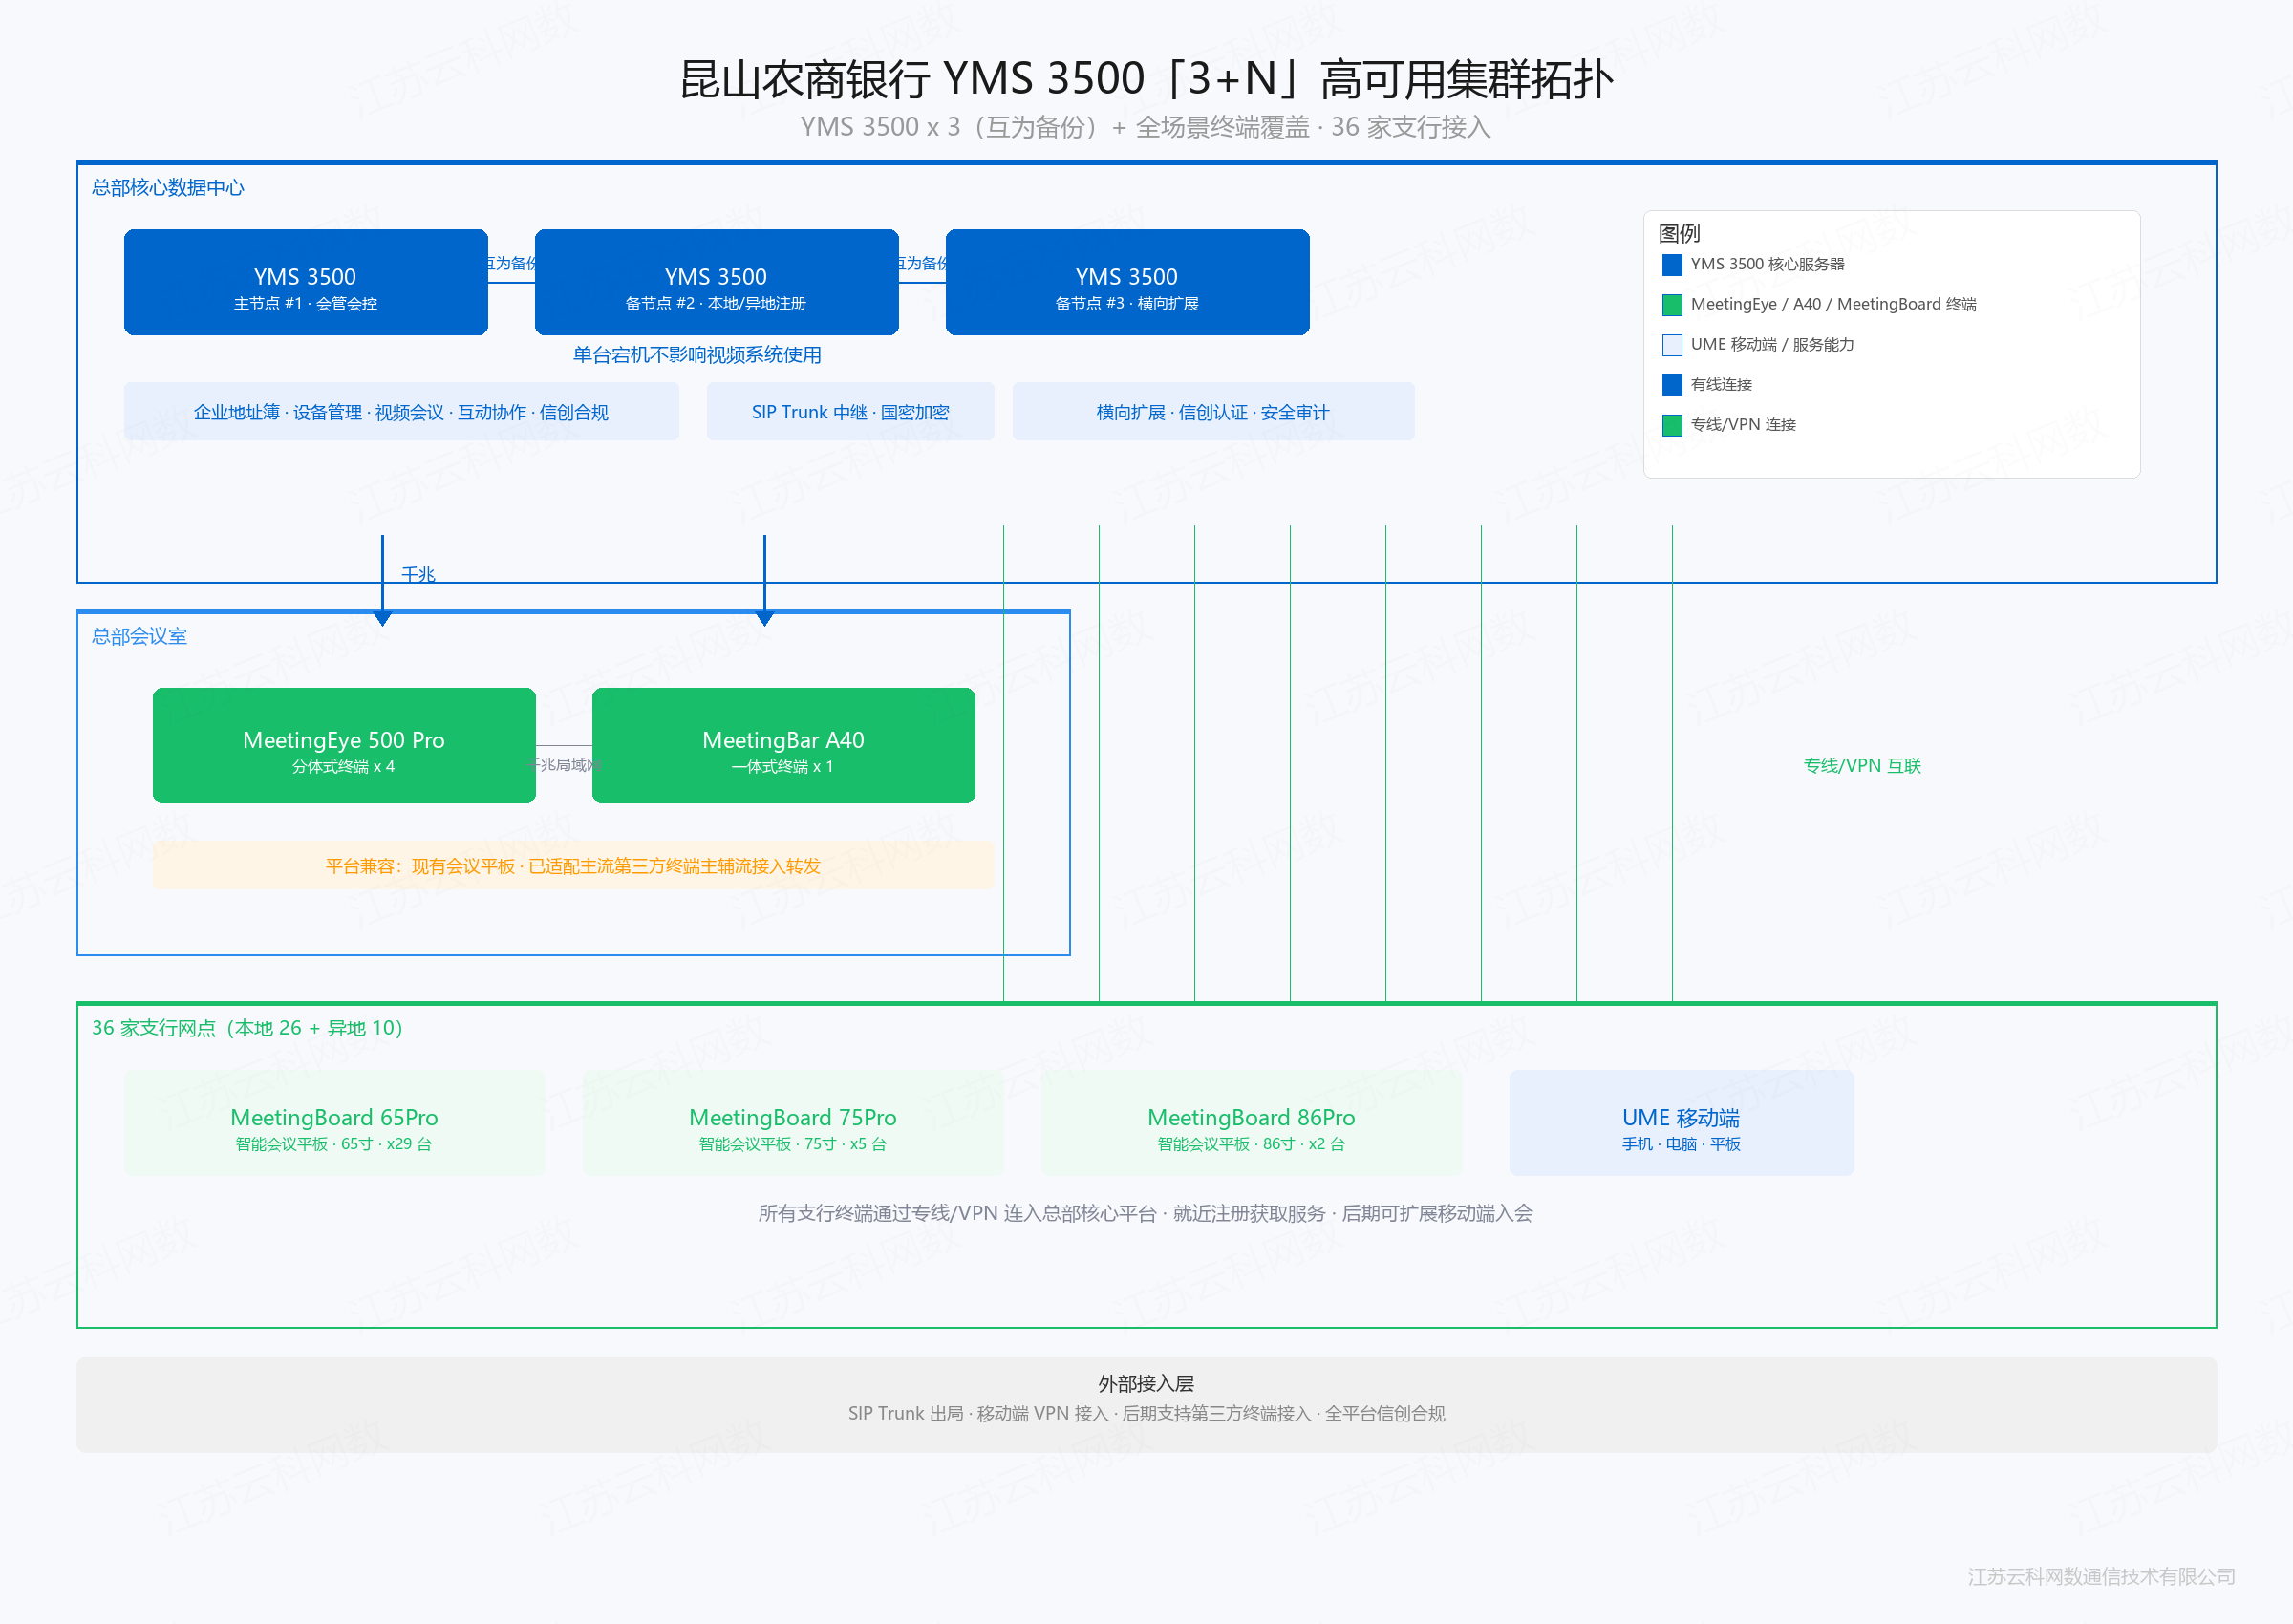
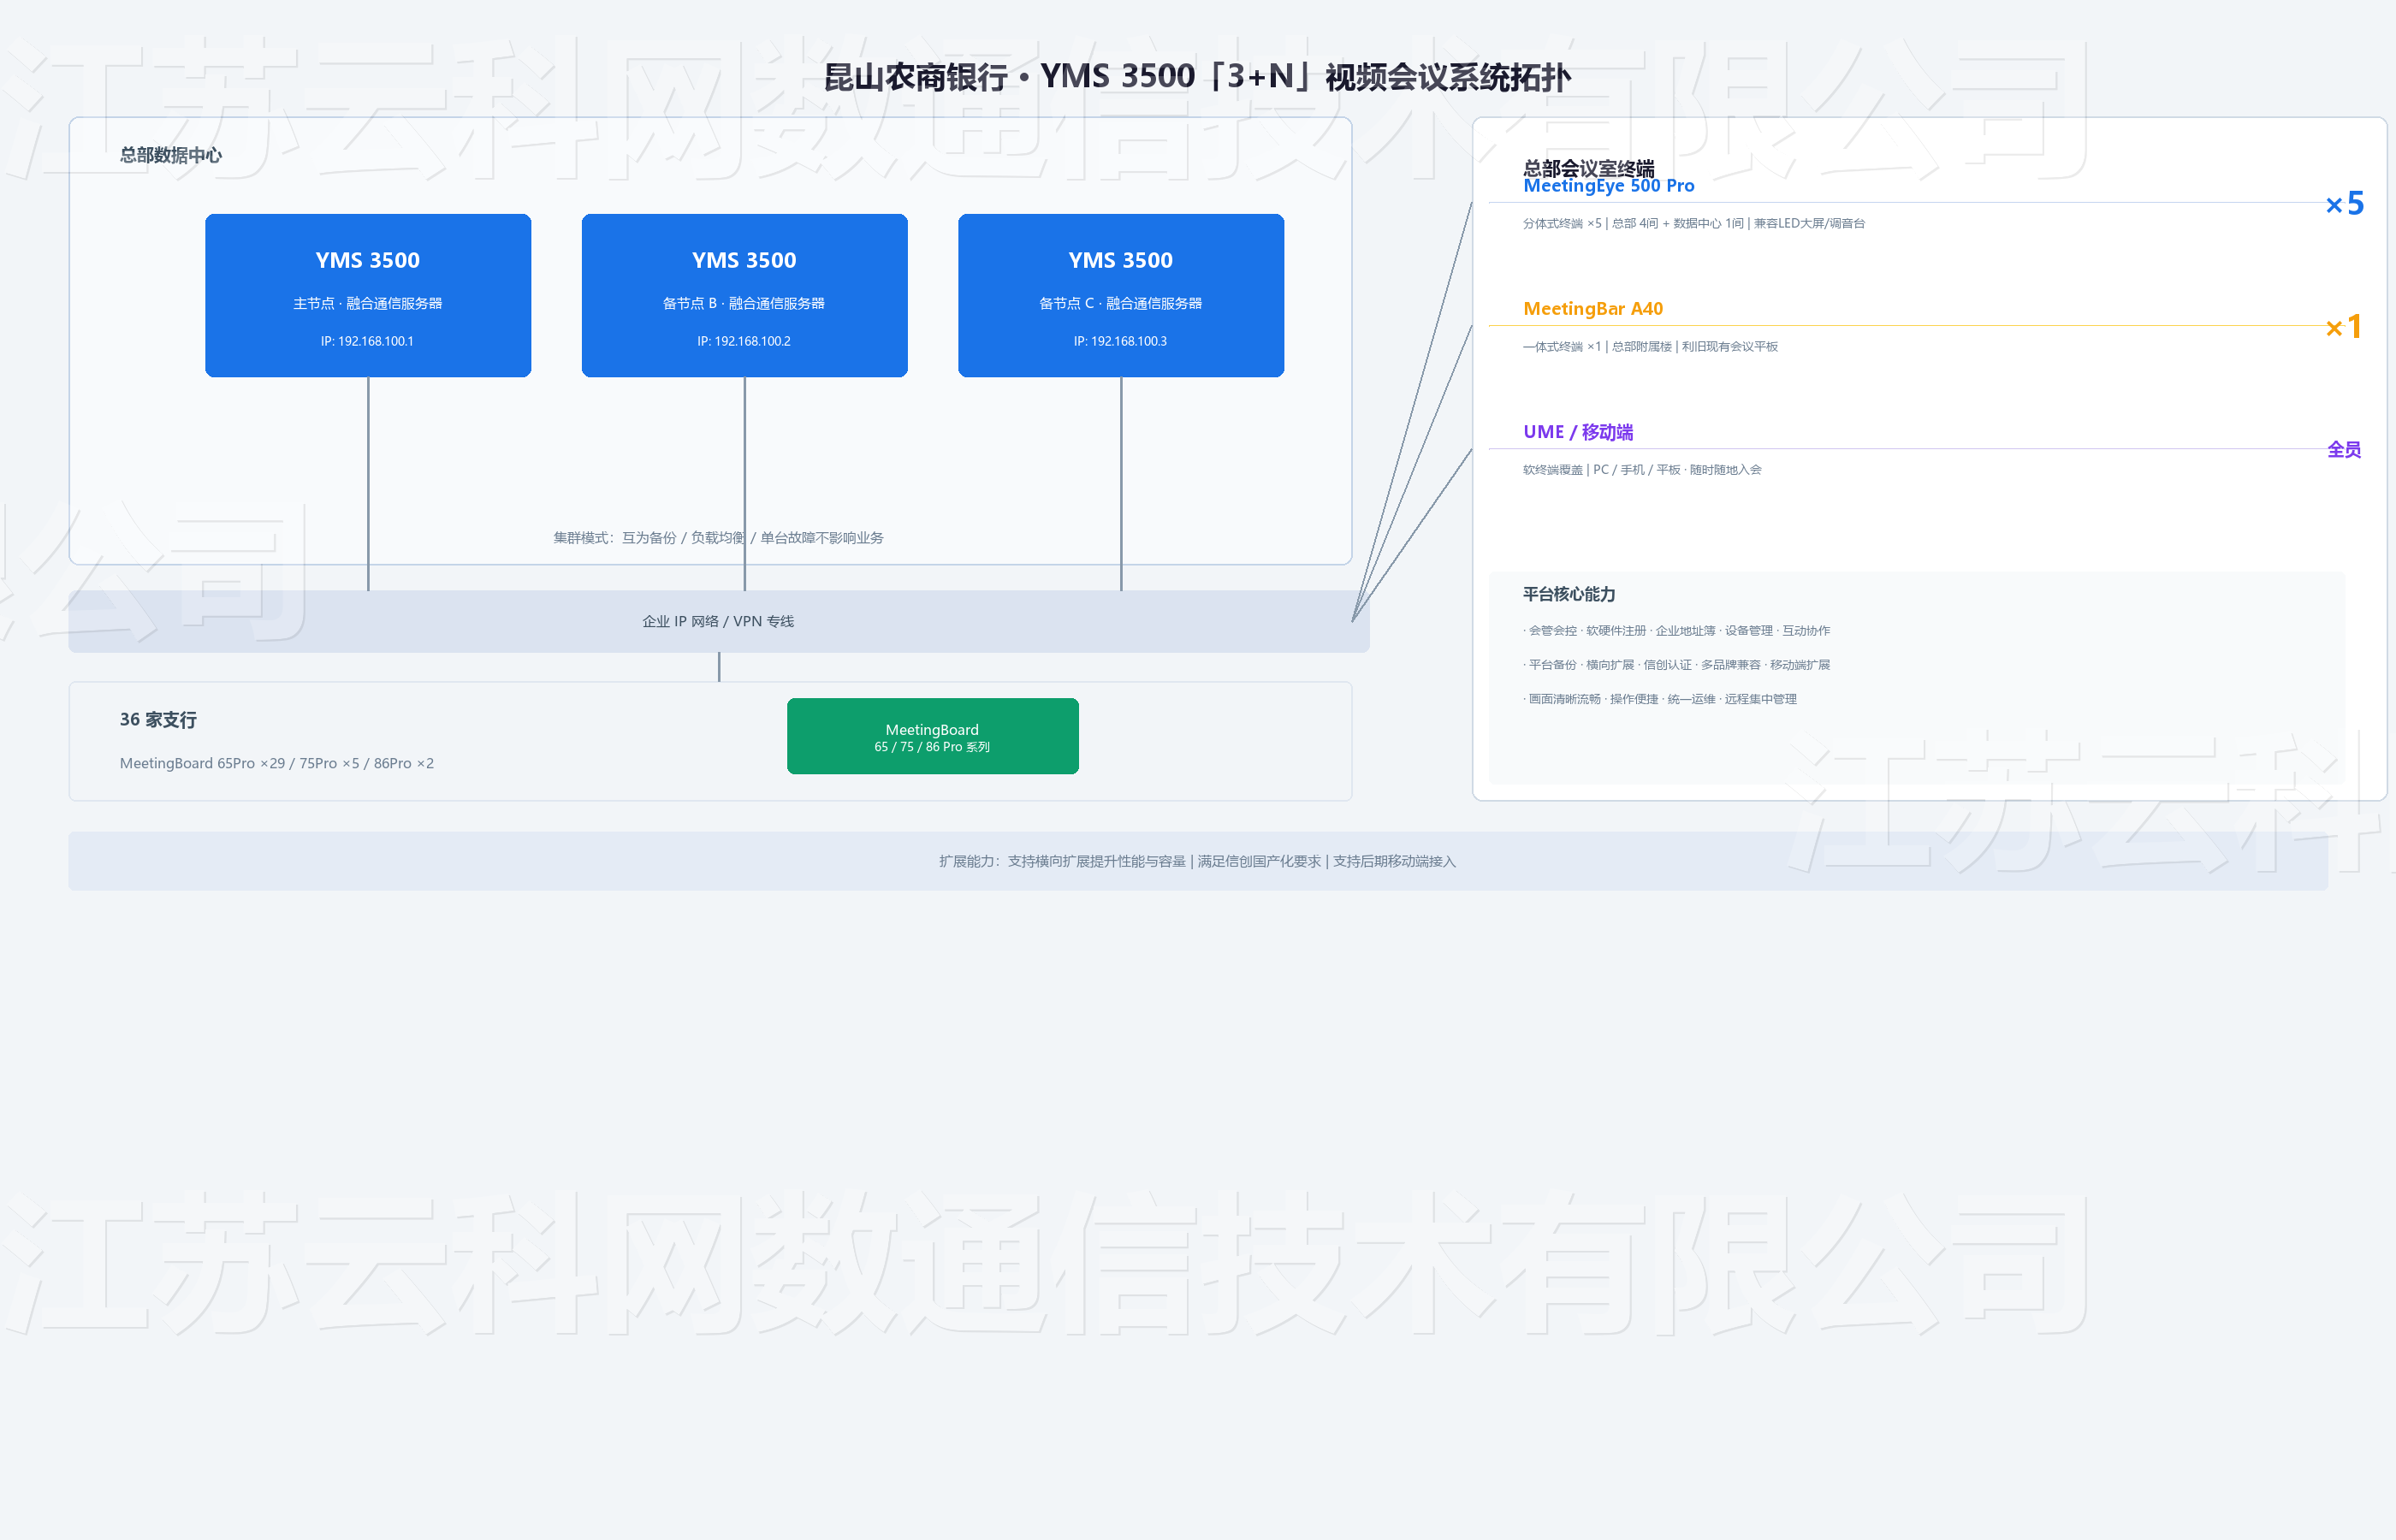
KSRCB拓扑图重绘(简洁版) + 全部4案例拓扑全局水印(江苏云科网数通信技术有限公司) + 案例页面去黑增活力(亮蓝配色)

diff --git a/Ai/case-jcet.html b/Ai/case-jcet.html
@@ -15,7 +15,7 @@ body { font-family: "PingFang SC", "Microsoft YaHei", "Helvetica Neue", Helvetic
 .back-link { font-size: 13px; color: #0066cc; text-decoration: none; }
 
 .case-hero {
-    background: linear-gradient(135deg, #0b1a2e 0%, #142c4a 50%, #0b1a2e 100%);
+    background: linear-gradient(135deg, #1a73e8 0%, #0d5fc5 50%, #1a73e8 100%);
     padding: 110px 24px 60px; color: #fff; text-align: center;
 }
 .case-hero-inner { max-width: 800px; margin: 0 auto; }
@@ -25,7 +25,7 @@ body { font-family: "PingFang SC", "Microsoft YaHei", "Helvetica Neue", Helvetic
 
 .sec { padding: 48px 24px; }
 .sec-gray { background: #f8f9fb; }
-.sec-dark { background: #111; color: #fff; }
+.sec-dark { background: #0d3a6e; color: #fff; }
 .sec-dark h2 { color: #fff; border-left-color: #4d94ff; }
 .sec-dark p, .sec-dark li { color: rgba(255,255,255,.7); }
 .sec-dark h3 { color: #fff; }
@@ -88,7 +88,7 @@ body { font-family: "PingFang SC", "Microsoft YaHei", "Helvetica Neue", Helvetic
 .kpi-item .kpi-num { font-size: 32px; font-weight: 700; color: #4d94ff; line-height: 1.1; }
 .kpi-item .kpi-label { font-size: 12px; color: rgba(255,255,255,.5); margin-top: 6px; }
 
-.footer { padding: 32px 24px; background: #111; color: rgba(255,255,255,.35); font-size: 12px; }
+.footer { padding: 32px 24px; background: #0d3a6e; color: rgba(255,255,255,.6); font-size: 12px; }
 .footer-inner { max-width: 1200px; margin: 0 auto; display: flex; justify-content: space-between; }
 
 @media (max-width: 768px) { .sol-grid, .val-grid, .room-grid, .kpi-row { grid-template-columns: 1fr 1fr; } .case-hero h1 { font-size: 22px; } }

diff --git a/Ai/case-bosideng.html b/Ai/case-bosideng.html
@@ -24,7 +24,7 @@ body {
 .back-link { font-size: 13px; color: #0066cc; text-decoration: none; }
 
 .case-hero {
-    background: linear-gradient(135deg, #1a1a2e 0%, #16213e 100%);
+    background: linear-gradient(135deg, #1a73e8 0%, #0d5fc5 50%, #1a73e8 100%);
     padding: 110px 24px 56px; color: #fff; text-align: center;
 }
 .case-hero-inner { max-width: 800px; margin: 0 auto; }
@@ -77,7 +77,7 @@ body {
 }
 .quote p { font-size: 14px; color: #333; font-style: italic; line-height: 1.8; }
 .quote .attrib { font-size: 12px; color: #999; margin-top: 12px; font-style: normal; }
-.footer { padding: 36px 24px; background: #111; color: rgba(255,255,255,.4); font-size: 12px; }
+.footer { padding: 36px 24px; background: #0d3a6e; color: rgba(255,255,255,.6); font-size: 12px; }
 .footer-inner { max-width: 1200px; margin: 0 auto; display: flex; justify-content: space-between; }
 
 @media (max-width: 768px) {

diff --git a/Ai/case-ksrcb.html b/Ai/case-ksrcb.html
@@ -15,7 +15,7 @@ body { font-family: "PingFang SC", "Microsoft YaHei", "Helvetica Neue", Helvetic
 .back-link { font-size: 13px; color: #0066cc; text-decoration: none; }
 
 .case-hero {
-    background: linear-gradient(135deg, #0d1b2a 0%, #1b2838 50%, #0d1b2a 100%);
+    background: linear-gradient(135deg, #1a73e8 0%, #0d5fc5 50%, #1a73e8 100%);
     padding: 110px 24px 60px; color: #fff; text-align: center;
 }
 .case-hero-inner { max-width: 800px; margin: 0 auto; }
@@ -68,7 +68,7 @@ body { font-family: "PingFang SC", "Microsoft YaHei", "Helvetica Neue", Helvetic
 .quote p { font-size: 14px; color: #333; font-style: italic; line-height: 1.8; }
 .quote .attrib { font-size: 12px; color: #999; margin-top: 10px; font-style: normal; }
 
-.footer { padding: 32px 24px; background: #111; color: rgba(255,255,255,.35); font-size: 12px; }
+.footer { padding: 32px 24px; background: #0d3a6e; color: rgba(255,255,255,.6); font-size: 12px; }
 .footer-inner { max-width: 1200px; margin: 0 auto; display: flex; justify-content: space-between; }
 
 @media (max-width: 768px) { .sol-grid, .val-grid { grid-template-columns: 1fr; } .case-hero h1 { font-size: 22px; } }

diff --git a/Ai/case-mflex.html b/Ai/case-mflex.html
@@ -24,7 +24,7 @@ body {
 .back-link { font-size: 13px; color: #0066cc; text-decoration: none; }
 
 .case-hero {
-    background: linear-gradient(135deg, #1a1a2e 0%, #16213e 100%);
+    background: linear-gradient(135deg, #1a73e8 0%, #0d5fc5 50%, #1a73e8 100%);
     padding: 110px 24px 56px; color: #fff; text-align: center;
 }
 .case-hero-inner { max-width: 800px; margin: 0 auto; }
@@ -78,7 +78,7 @@ body {
 }
 .quote p { font-size: 14px; color: #333; font-style: italic; line-height: 1.8; }
 .quote .attrib { font-size: 12px; color: #999; margin-top: 12px; font-style: normal; }
-.footer { padding: 36px 24px; background: #111; color: rgba(255,255,255,.4); font-size: 12px; }
+.footer { padding: 36px 24px; background: #0d3a6e; color: rgba(255,255,255,.6); font-size: 12px; }
 .footer-inner { max-width: 1200px; margin: 0 auto; display: flex; justify-content: space-between; }
 
 @media (max-width: 768px) {